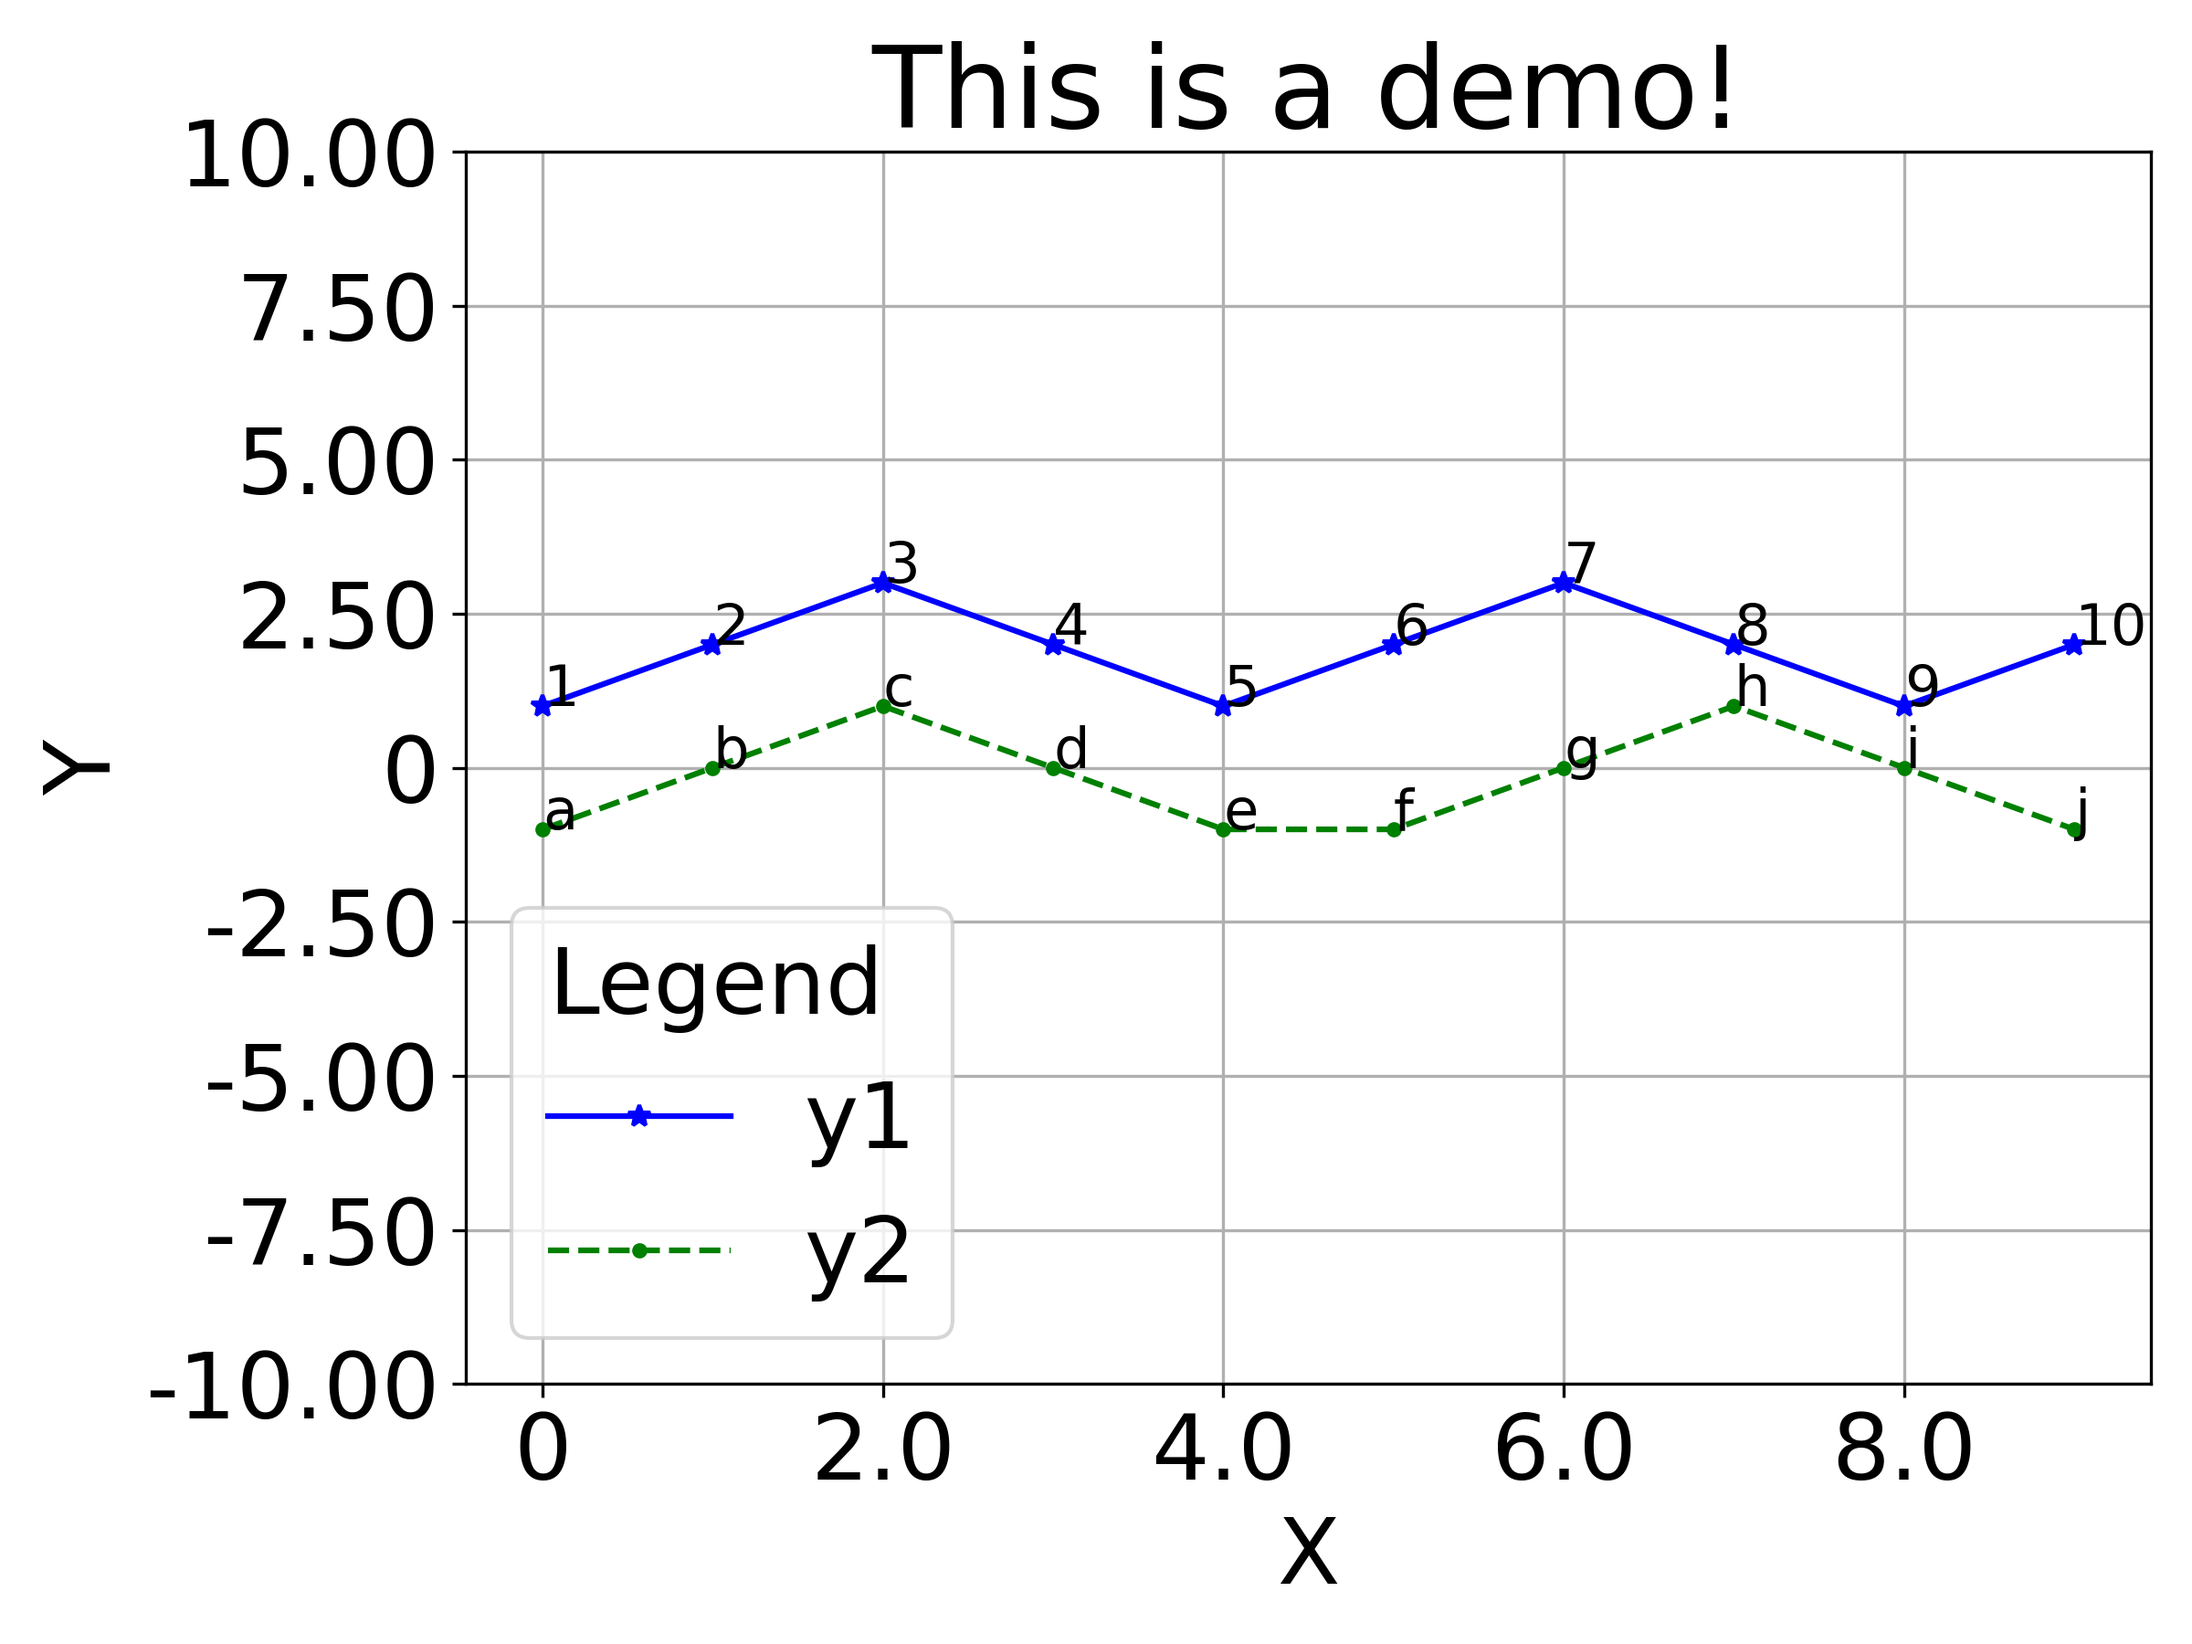
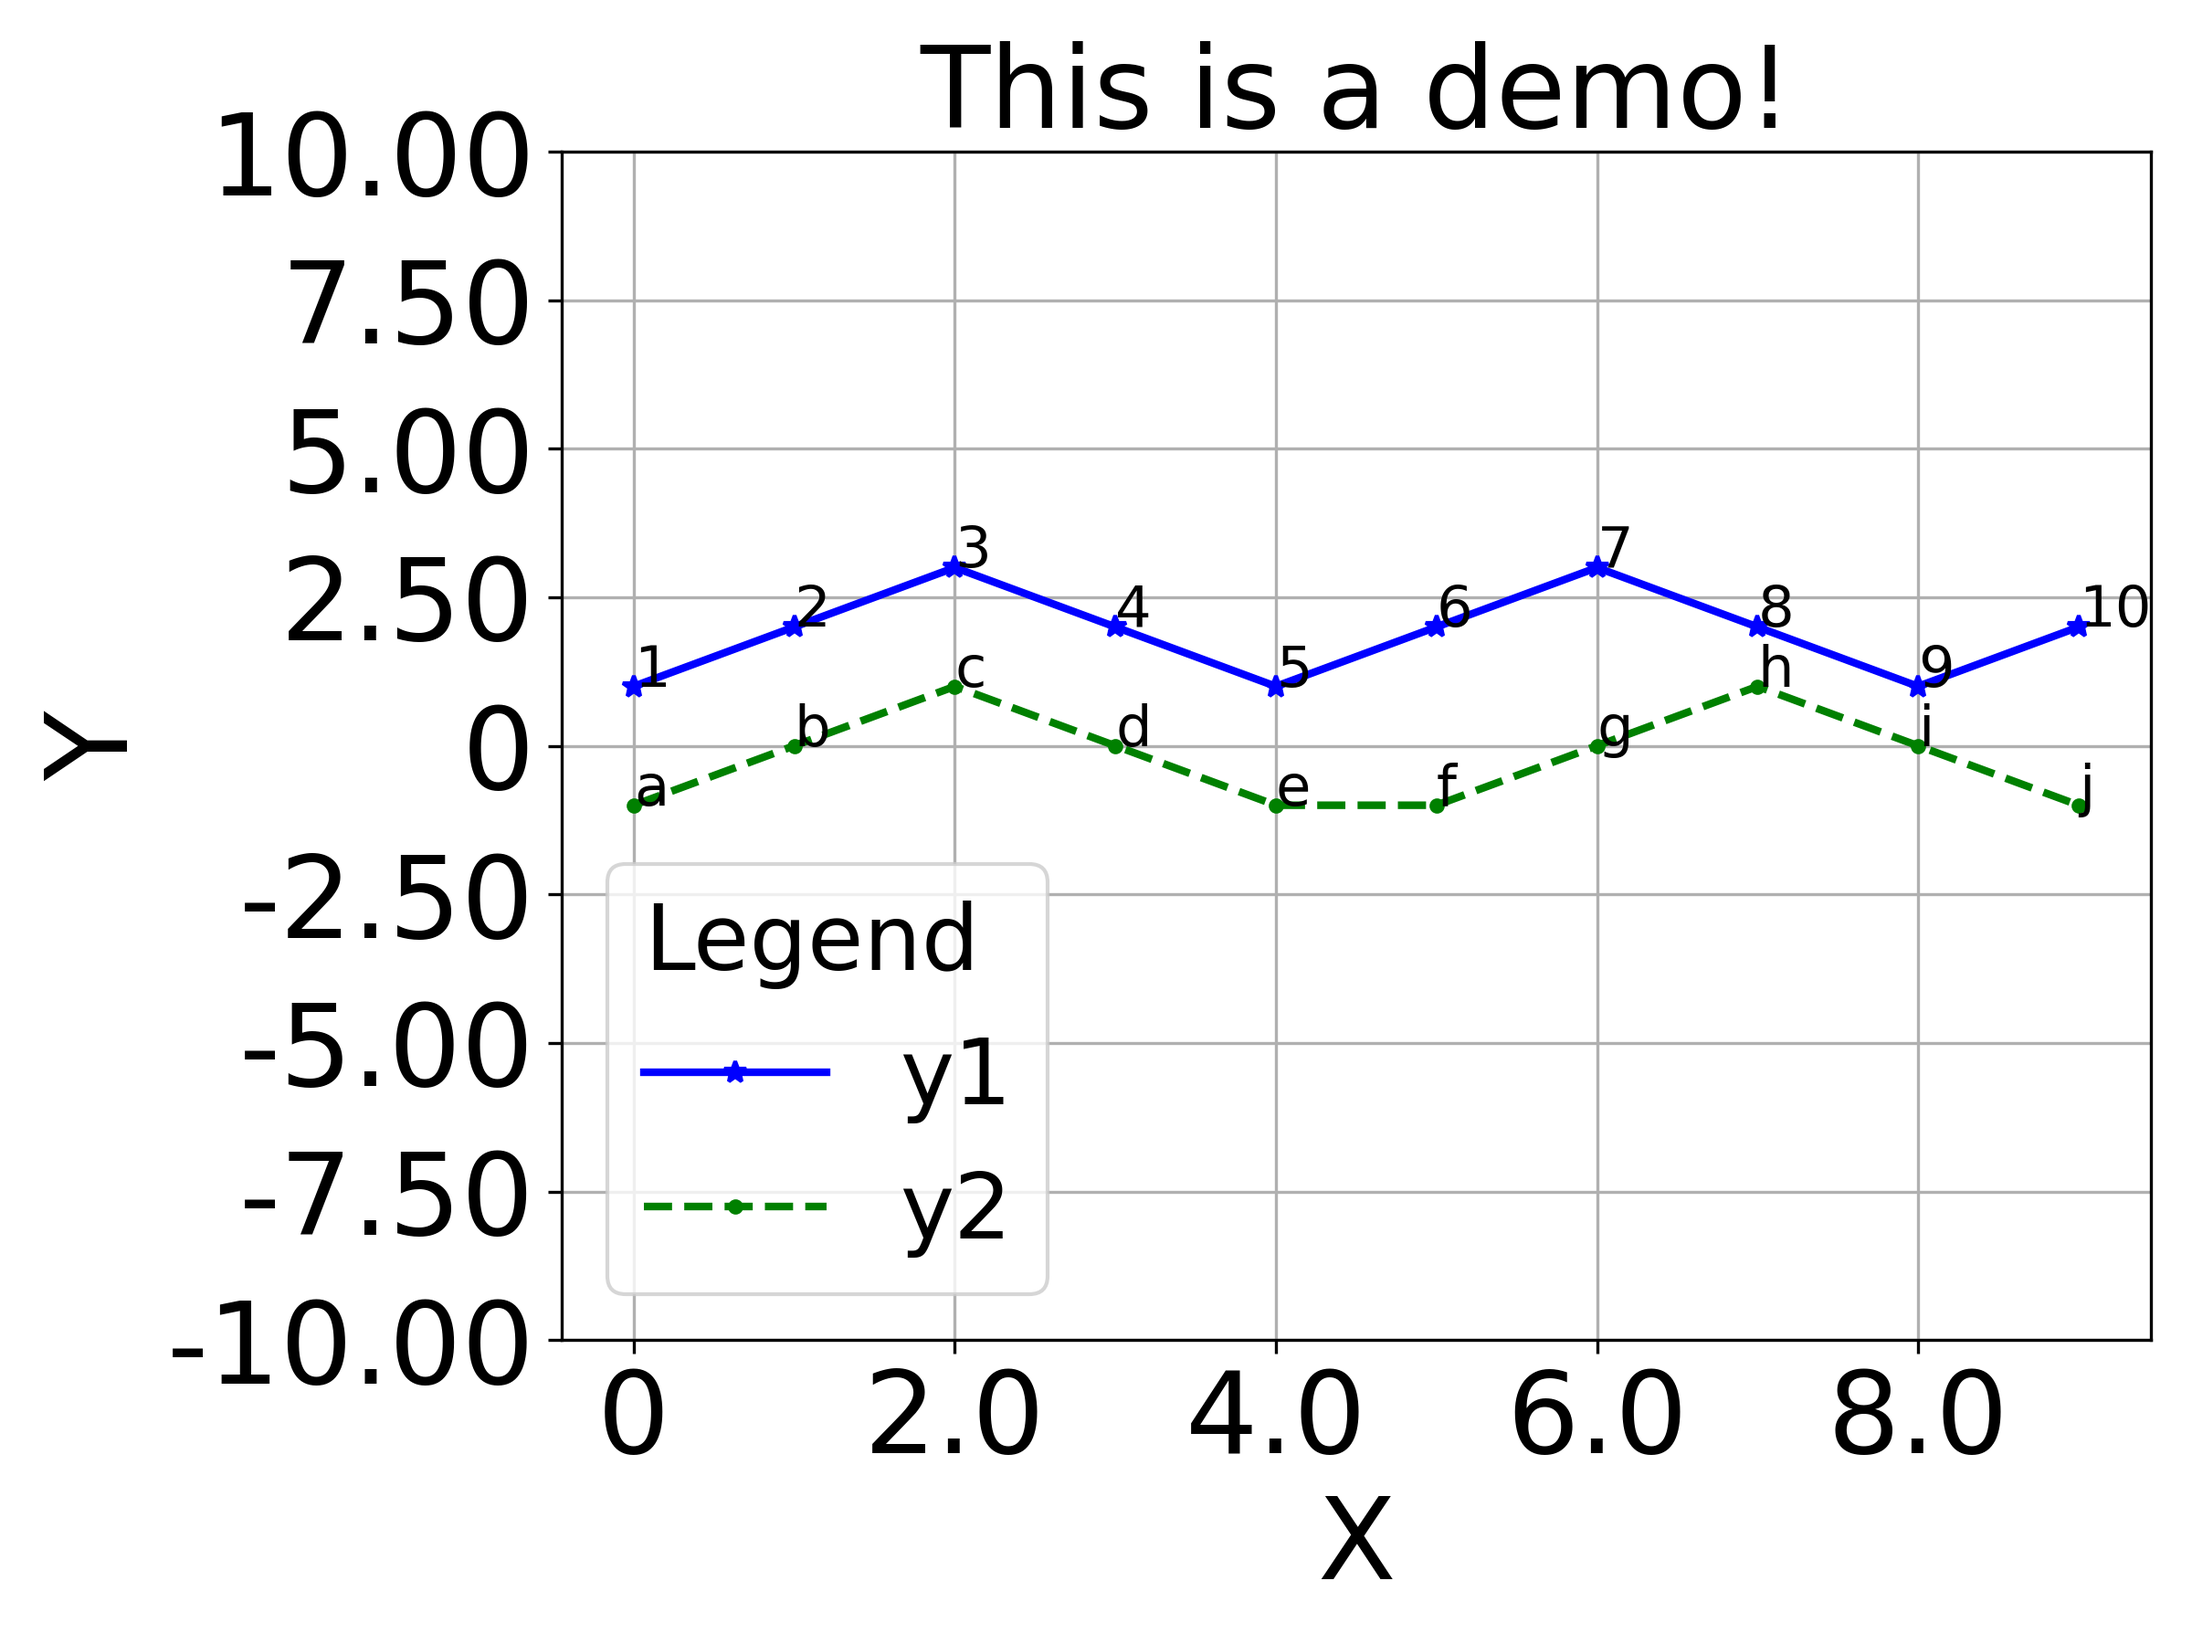
Update

diff --git a/py_plotter/plot.py b/py_plotter/plot.py
@@ -35,8 +35,11 @@ class Plotter(Pyplot_config):
         pass
 
     # 用于画折线图, 有几条线就画几个
-    def plot_lines(self, x_list=None, line_data_list=None, data_label_list=None, legend_label_list=None, x_label="x", y_label="y", title=None,
-                   x_grid=False, y_grid=True, y_min=None, y_max=None, x_tick_ndigits=1, y_tick_ndigits=2, is_marker=False,
+    def plot_lines(self, x_list=None, line_data_list=None, data_label_list=None, legend_label_list=None, x_label="x",
+                   y_label="y", title=None,
+                   x_grid=False, y_grid=True, y_min=None, y_max=None, x_tick_ndigits=1, y_tick_ndigits=2,
+                   is_marker=False,
+                   line_width=2.0,  # 新增参数用于控制线条粗细
                    save_root="./", filename="demo.png", is_show=False, legend_ncol=1, bbox_to_anchor=None,
                    legend_loc="best", legend_title="legend"):
         # 如果 save_root 没有创建，则创建一个
@@ -50,18 +53,19 @@ class Plotter(Pyplot_config):
             for index, y in enumerate(line_data_list):
                 if is_marker:
                     plt.plot(x_list[index], y, color=self.color_list[index], linestyle=self.linestyle_list[index],
-                             label=legend_label_list[index], marker=self.marker_list[index])
+                             label=legend_label_list[index], marker=self.marker_list[index],
+                             linewidth=line_width)  # 使用line_width参数
                 else:
                     plt.plot(x_list[index], y, color=self.color_list[index], linestyle=self.linestyle_list[index],
-                             label=legend_label_list[index])
+                             label=legend_label_list[index], linewidth=line_width)  # 使用line_width参数
         else:
             for index, y in enumerate(line_data_list):
                 if is_marker:
                     plt.plot(x_list[index], y, color=self.color_list[index], linestyle=self.linestyle_list[index],
-                             marker=self.marker_list[index])
+                             marker=self.marker_list[index], linewidth=line_width)  # 使用line_width参数
                 else:
-                    plt.plot(x_list[index], y, color=self.color_list[index], linestyle=self.linestyle_list[index])
-
+                    plt.plot(x_list[index], y, color=self.color_list[index], linestyle=self.linestyle_list[index],
+                             linewidth=line_width)  # 使用line_width参数
         plt.xlabel(x_label, fontsize=self.label_size)
         plt.ylabel(y_label, fontsize=self.label_size)
         # 判断是否绘制title

diff --git a/py_plotter/example.py b/py_plotter/example.py
@@ -62,24 +62,24 @@ if __name__ == "__main__":
     y4 = [1, 6, 3, 8, 6, 4, 3, 1, 3, 0]
     y5 = [0, 2, 3, 4, 2, 1, 6, 8, 5, 1]
     #
-    # my_plotter.plot_lines(
-    #     x_list=[[i for i in range(len(y1))] for i in range(5)],
-    #     line_data_list=[y1, y2],
-    #     legend_label_list=["y1", "y2"],
-    #     data_label_list=[["1","2","3","4","5","6","7","8","9","10"],["a","b","c","d","e","f","g","h","i","j"]],
-    #     x_label="X",
-    #     y_label="Y",
-    #     x_grid=True,
-    #     y_grid=True,
-    #     y_min=-10,
-    #     y_max=10,
-    #     is_marker=True,
-    #     legend_loc="best",
-    #     legend_title="Legend",
-    #     title="This is a demo!",
-    #     save_root="./results",
-    #     filename="plot_lines_demo"
-    # )
+    my_plotter.plot_lines(
+        x_list=[[i for i in range(len(y1))] for i in range(5)],
+        line_data_list=[y1, y2],
+        legend_label_list=["y1", "y2"],
+        data_label_list=[["1","2","3","4","5","6","7","8","9","10"],["a","b","c","d","e","f","g","h","i","j"]],
+        x_label="X",
+        y_label="Y",
+        x_grid=True,
+        y_grid=True,
+        y_min=-10,
+        y_max=10,
+        is_marker=True,
+        legend_loc="best",
+        legend_title="Legend",
+        title="This is a demo!",
+        save_root="./results",
+        filename="plot_lines_demo"
+    )
     #
     # my_plotter.plot_cdfs(
     #     cdf_data_list=[y1, y2, y3, y4, y5],
